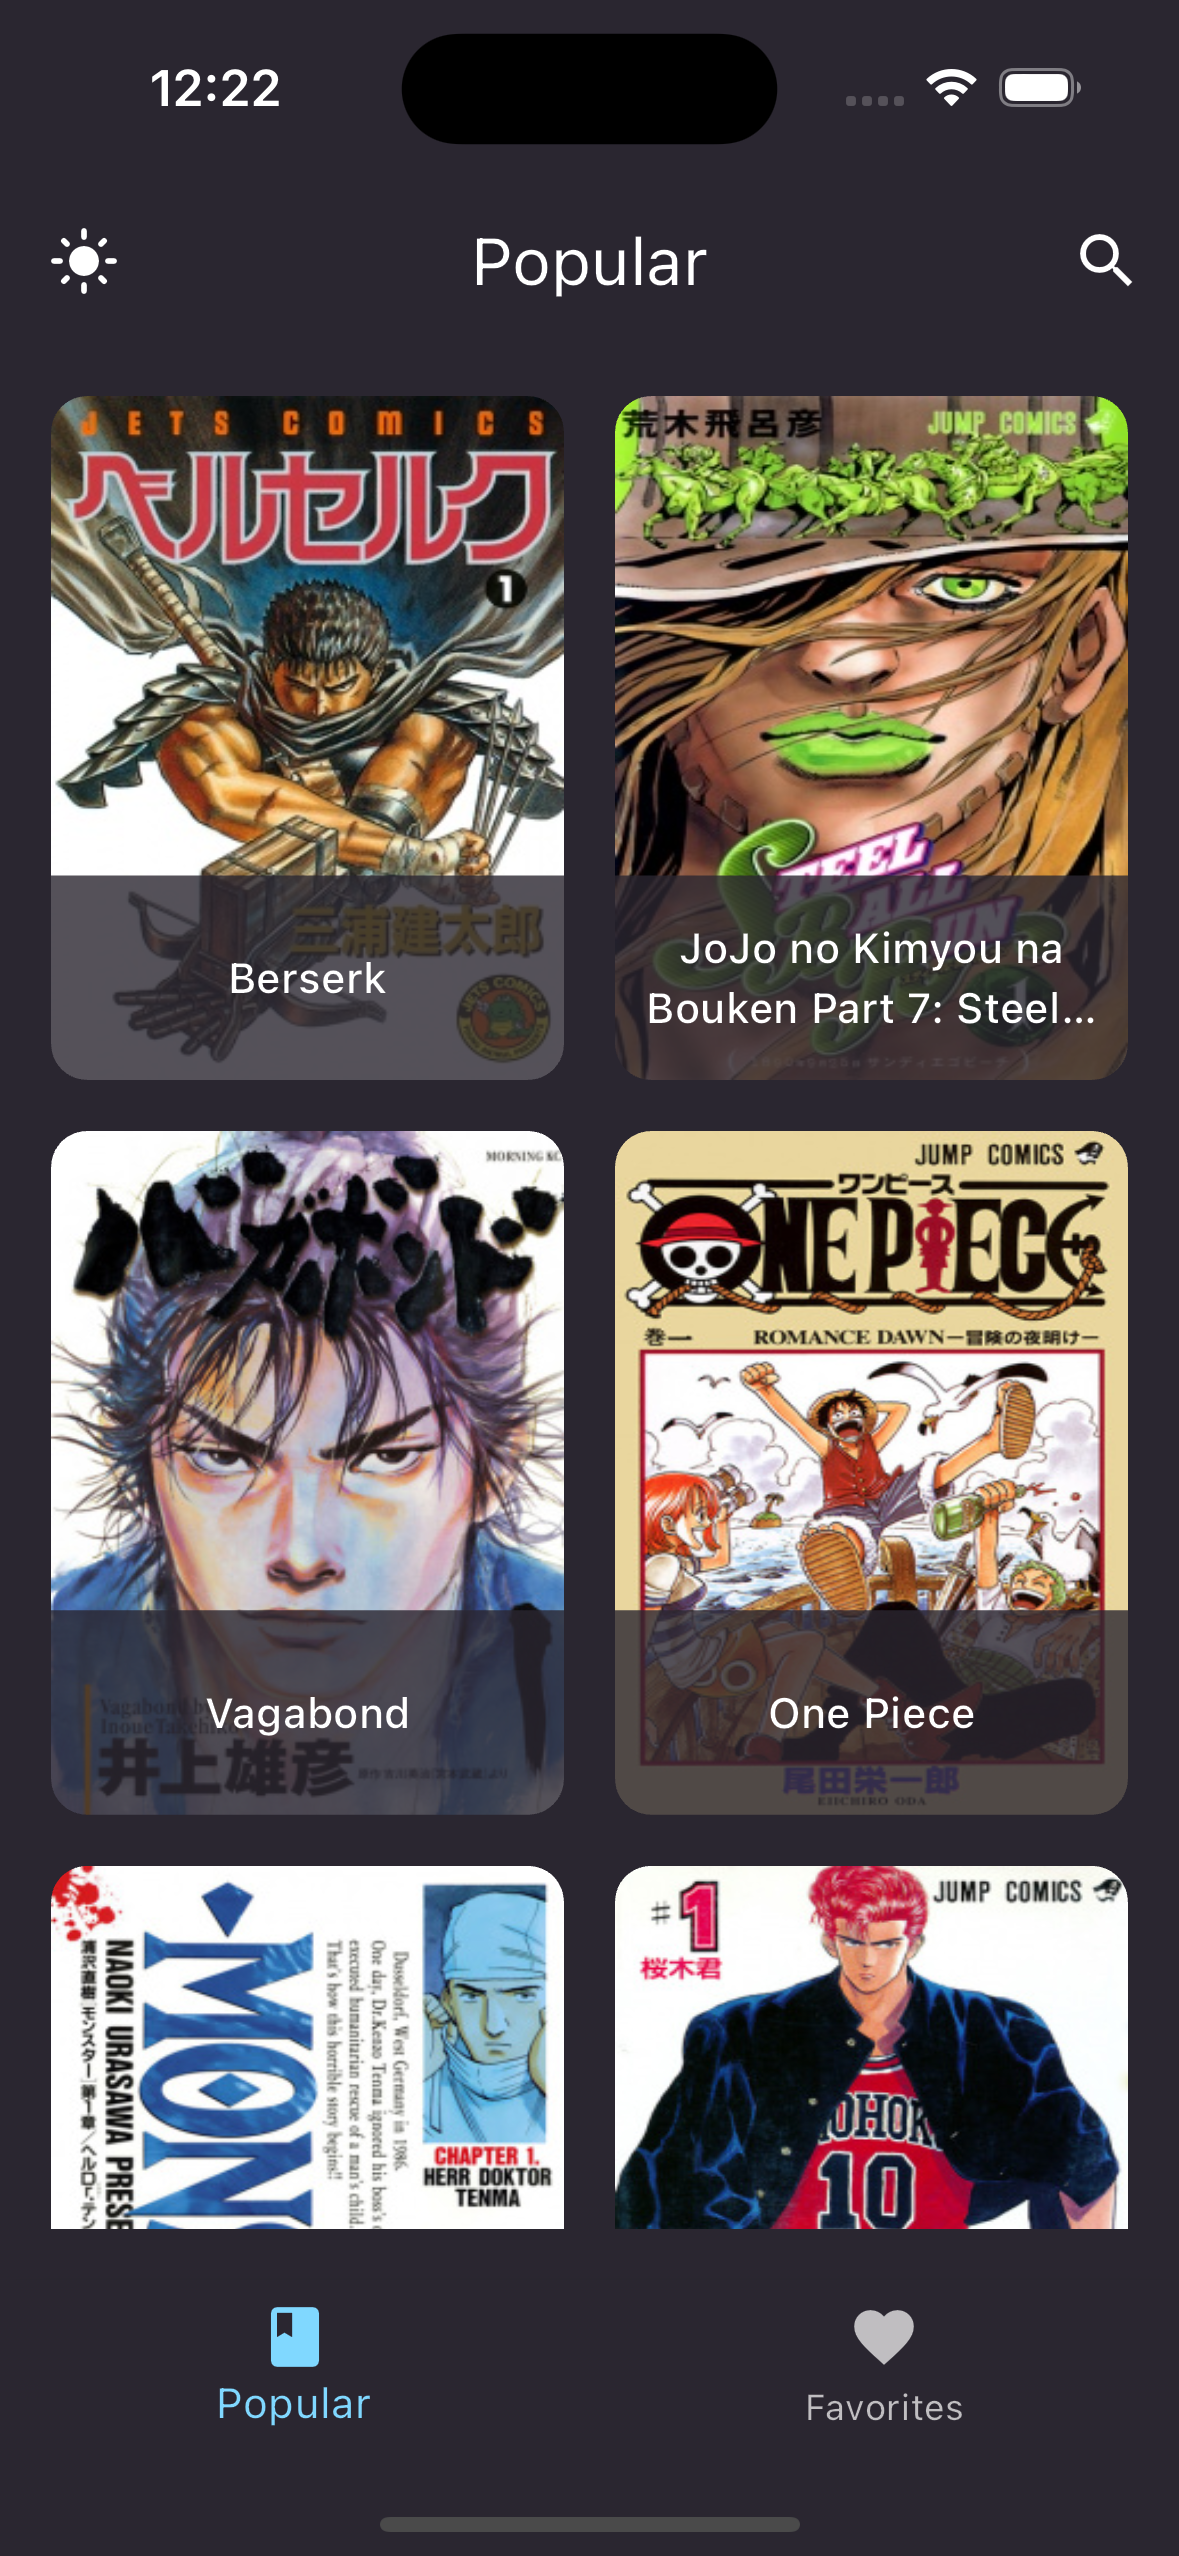
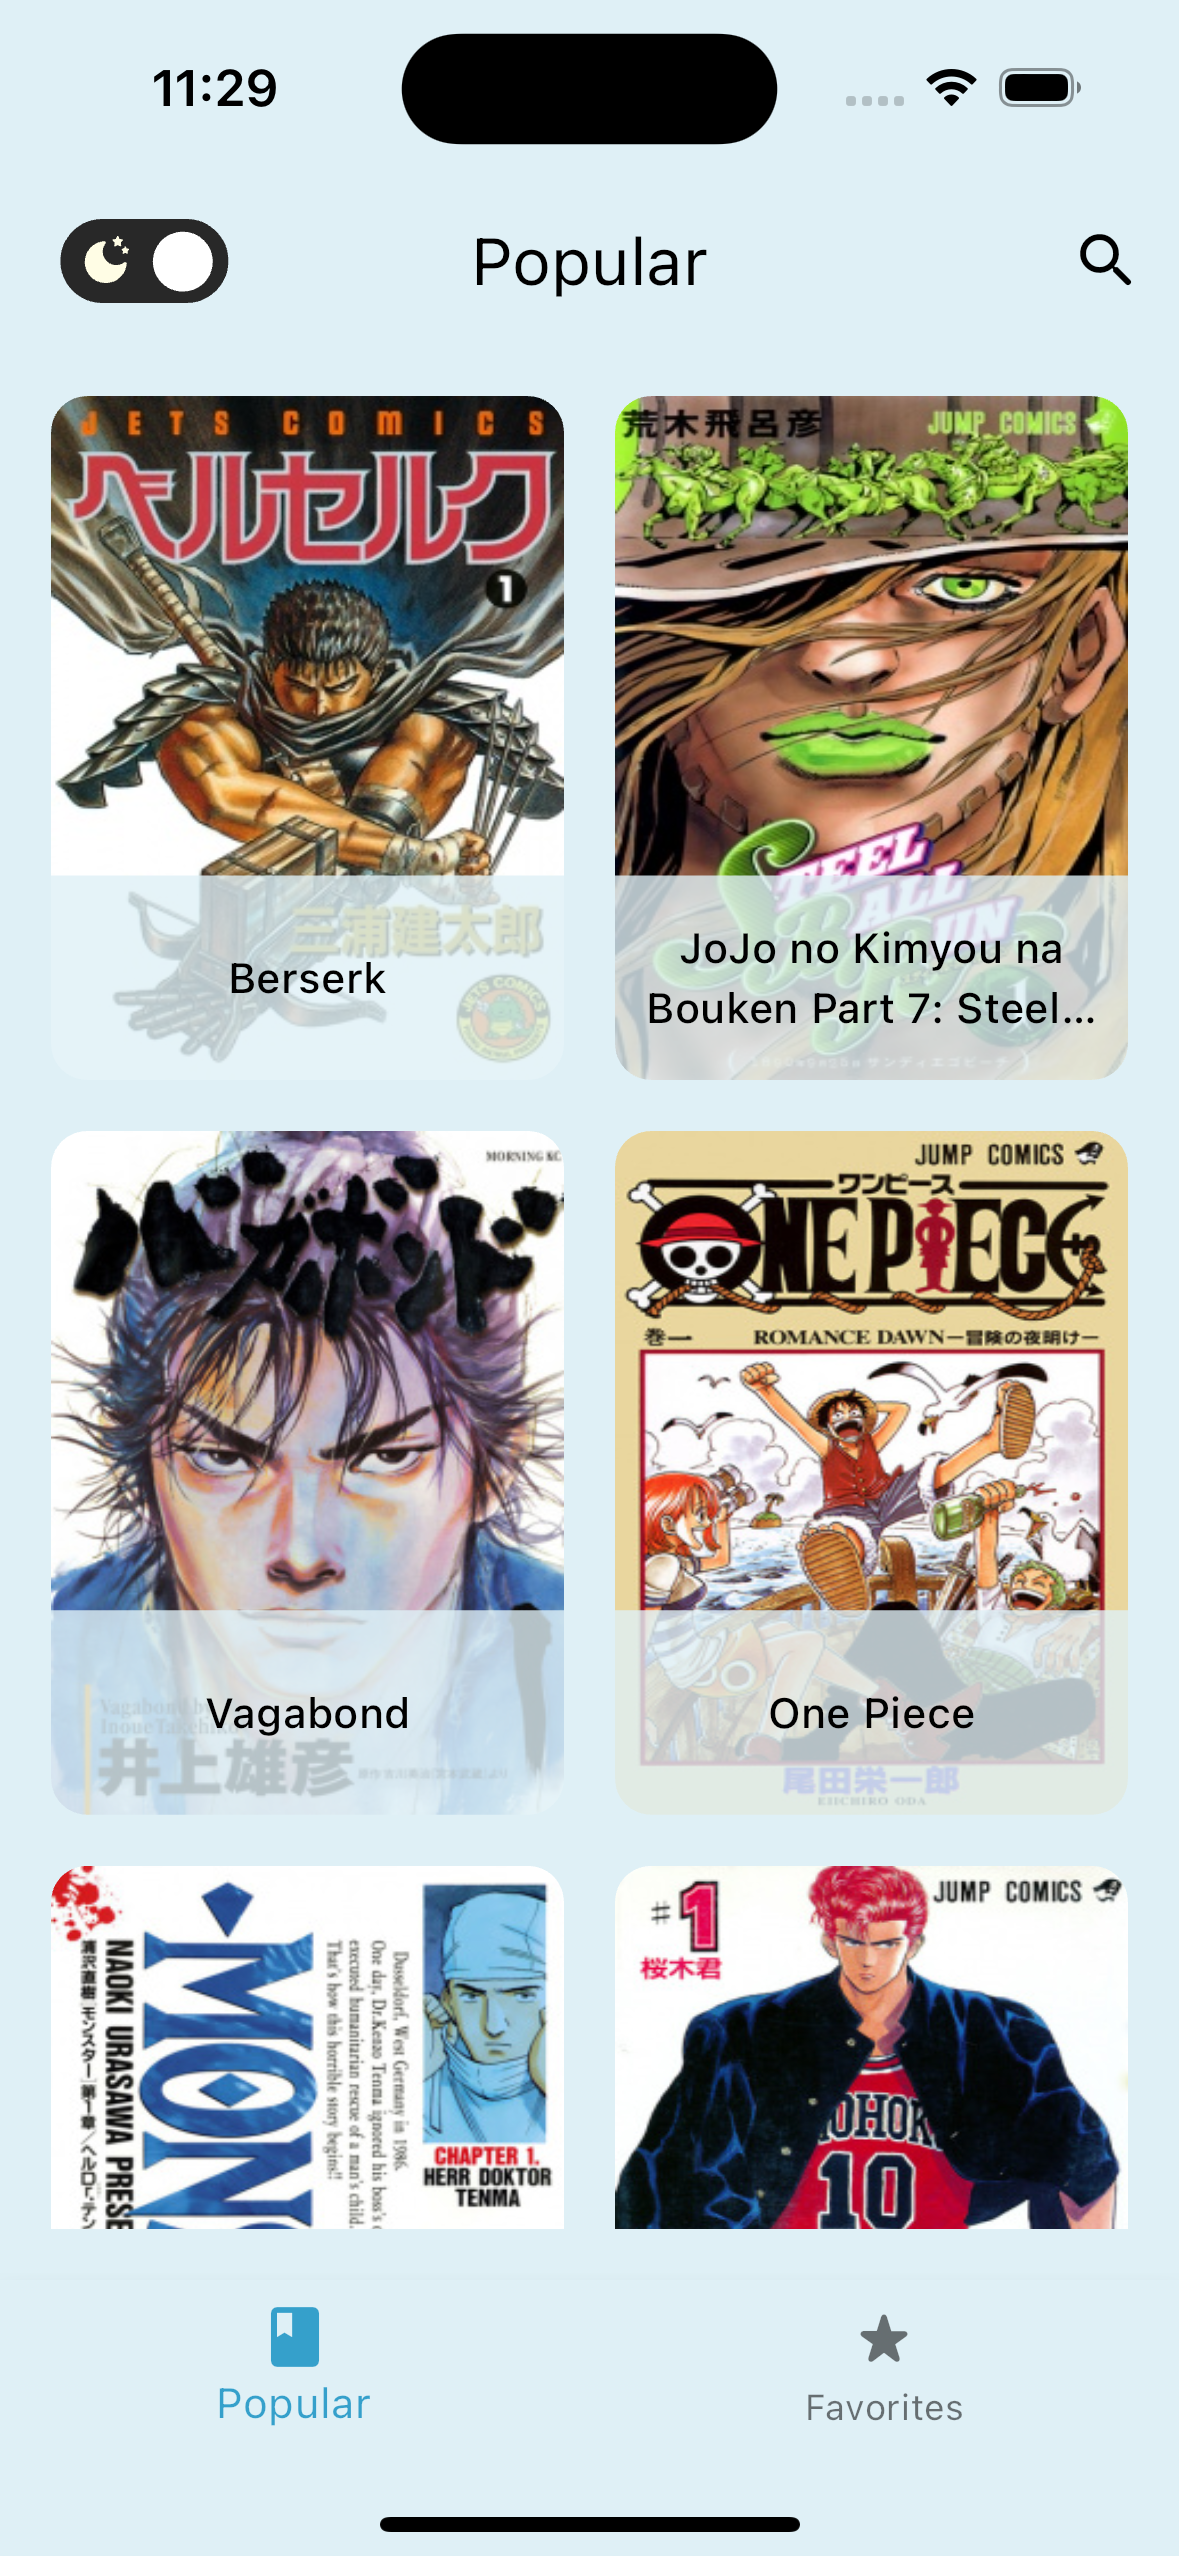
update readme and screenshots

diff --git a/README.md b/README.md
@@ -1,11 +1,13 @@
 # Manga App
-Manga app with a feature-first layered clean architecture, generic caching, lazy loading, debouncing, throttling, and adaptive theming.
+
+Manga app with a feature-first layered clean architecture, generic caching, lazy loading, debouncing, throttling, and adaptive theming. The UI of the app is intentionally kept simple, as my primary objective was to showcase the implementation of clean architecture, generic caching, lazy loading, debouncing, and throttling.
 
 ## Features
+
 - Popular Mangas List: The app displays a list of popular mangas. This list is loaded lazily to optimize performance and reduce initial loading times. Additionally, throttling is implemented to minimize consecutive API calls.
 - View Details: Access detailed information about each manga.
-- Favorites: Easily add and store favorite mangas locally using [HiveDB](https://pub.dev/packages/hive).
-- Search: Find any manga with the search functionality. Debouncing technique is used to prevent unnecessary API calls.
+- Favorites: Add and store favorite mangas locally using [HiveDB](https://pub.dev/packages/hive).
+- Search: Find any manga with the search feature. Debouncing technique is used to prevent unnecessary API calls.
 - Adaptive Theme: The app automatically adjusts its theme based on the device's settings and remembers user preferences.
 
 ## Built With
@@ -15,6 +17,7 @@ Manga app with a feature-first layered clean architecture, generic caching, lazy
 - [Jikan API v4](https://docs.api.jikan.moe/)
 
 ## Preview
+
 <p>
     <img src="screenshots/preview.gif" width="19%"/>
     <img src="screenshots/popular.png" width="19%"/>
@@ -23,11 +26,11 @@ Manga app with a feature-first layered clean architecture, generic caching, lazy
     <img src="screenshots/detail.png" width="19%"/>
 </p>
 
-## Project Structure
+## Folder Structure
+
 - "app" folder holds files specific to this particular application.
 - "core" folder contains application-agnostic code that can be reused in other projects.
 - "feature" folder represents the app's feature set. Each feature is divided into subfolders for data, domain, and presentation.
-
 
 ## Packages
 
